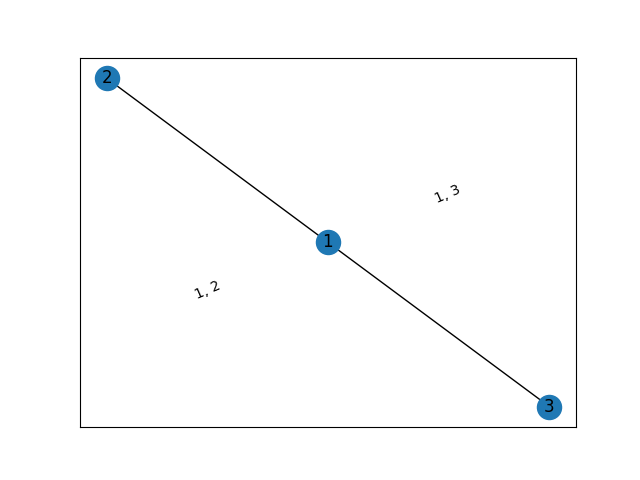
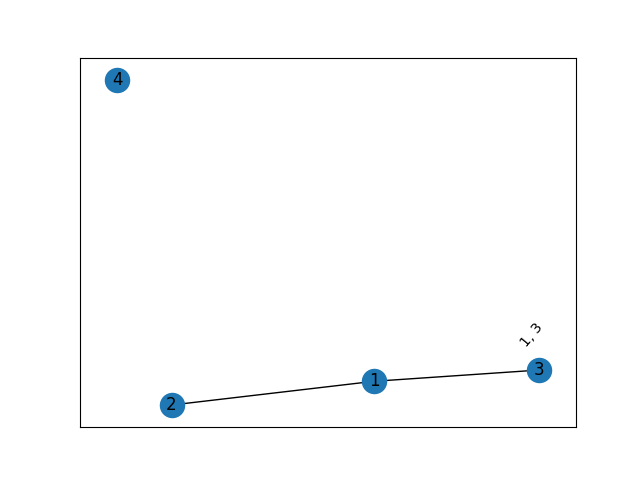
3rd

diff --git a/dag_testing/GHZ5/GHZ5.py b/dag_testing/GHZ5/GHZ5.py
@@ -7,6 +7,10 @@ from qiskit.visualization import dag_visualization
 from qiskit.converters import circuit_to_dag
 import os
 from ctypes import c_int, addressof
+import networkx as nx
+import matplotlib.pyplot as plt
+from networkx.drawing.nx_pydot import write_dot
+import networkx.algorithms.isomorphism as iso
 os.environ["PATH"] += os.pathsep + \
     '/Library/Frameworks/Python.framework/Versions/3.7/lib/python3.7/site-packages/graphviz'
 # IBMQ.load_accounts()
@@ -329,48 +333,126 @@ dist_table = []
 
 dist_table_dict = {}
 
+# turn the group into networkx graph
 for group in finalGroupingResult:
-    # turn the group into a list
+    if len(group) <= 1:
+        continue
+    # reassign qarg values
+    qarg_dict = {}
+    value_index = 10
     for dag_id in group:
-        list1 = []
-        list2 = []
-        temp_list = []
-        temp_list.append(dag_id)
-        temp_list.append(dagList[dag_id].name)
-        temp_list.append(dagList[dag_id].qargs)
-        if id_depth_dict[dag_id] % 2 == 1:
-            list1.append(temp_list.copy())
-        else:
-            list2.append(temp_list.copy())
-    result_list = []
-    result_list.append(list1)
-    result_list.append(list2)
-    # reformat 
-
-
-    # check whether result_list is in dist_table
-    iterator = 0
+        node = dagList[dag_id]
+        qargs = node[3]
+        for qarg in qargs:
+            if qarg[1] not in qarg_dict:
+                qarg_dict[qarg[1]] = value_index
+                value_index += 1 
+                
+    G = nx.Graph()
+    G.clear()
+    dumb_node = 'Z'
+    for dag_id in group:
+        if id_depth_dict[dag_id] % 2 == 1: # if on the first level
+            node = dagList[dag_id]
+            name = node[0].name
+            G.add_nodes_from([dag_id], fill=name)
+            qargs = node[3]
+            for qarg in qargs:
+                new_qarg = qarg_dict[qarg[1]]
+                G.add_nodes_from([dumb_node], fill='dumb')
+                G.add_weighted_edges_from([(dumb_node, dag_id, new_qarg)])
+                dumb_node = chr(ord(dumb_node) - 1)
+        else: # if on the second level:
+            node = dagList[dag_id]
+            name = node[0].name
+            G.add_nodes_from([dag_id], fill=name)
+            qargs = node[3]
+            pred_list = node[5]
+            index = 0
+            for qarg in qargs:
+                new_qarg = qarg_dict[qarg[1]]
+                pred = pred_list[index]
+                pred_node_id = pred._node_id
+                pred_dag_id = idDict[pred_node_id]
+                if pred_dag_id in group: # if in the group, connect them
+                    G.add_weighted_edges_from([(dag_id, pred_dag_id, new_qarg)])
+                else: # if not in the group connect it to a dumb_node
+                    G.add_nodes_from([dumb_node], fill='dumb')
+                    G.add_weighted_edges_from([(dumb_node, dag_id, new_qarg)]) 
+                    dumb_node = chr(ord(dumb_node) - 1)
+                index += 1 
+    # compare with known structures in table_list
+    em = iso.numerical_edge_match('weight', 10)
+    nm = iso.categorical_node_match('fill', 'dumb')
+    
+    index = 0
     found = False
-    while iterator < len(dist_table):
-        to_continue = False
-        # check same:
-        if len(result_list) == len(dist_table[iterator]):
-            if (len(result_list[0]) == len(dist_table[iterator][0])) and (len(result_list[1]) == len(dist_table[iterator][1])):
-                it = 0
-                while it < len(result_list[0]):
-                    node1 = result_list[0][it]
-                    node2 = dist_table[iterator][0][it]
-                    name1 = node1[1]
-                    name2 = node2[1]
-                    qargs1 = node1[2]
-                    qargs2 = node2[2]
-                    if len(qargs1) == len(qargs2):
-                        if 
-                    else:
-                        to_continue = True
-                        break
-                    it += 1
-                if to_continue == True:
-                    continue
-        iterator += 1
+    while index < len(dist_table):
+        H = dist_table[index]
+        if nx.is_isomorphic(G, H, node_match=nm, edge_match=em):
+            dist_table_dict[index] = dist_table_dict[index] + 1
+            found = True
+            break
+        index += 1
+    if not found: # add a new structure
+        dist_table.append(G)
+        pos = len(dist_table) - 1
+        dist_table_dict[pos] = 1
+
+iterator = 0
+while iterator < len(dist_table):
+    G = dist_table[iterator]
+    suffix = str(iterator)
+    file_name = '../structures/structure_' + suffix
+    nx.draw_networkx(G)
+    plt.savefig(file_name)
+    iterator += 1
+
+
+
+
+# for group in finalGroupingResult:
+#     # turn the group into a list
+#     for dag_id in group:
+#         list1 = []
+#         list2 = []
+#         temp_list = []
+#         temp_list.append(dag_id)
+#         temp_list.append(dagList[dag_id].name)
+#         temp_list.append(dagList[dag_id].qargs)
+#         if id_depth_dict[dag_id] % 2 == 1:
+#             list1.append(temp_list.copy())
+#         else:
+#             list2.append(temp_list.copy())
+#     result_list = []
+#     result_list.append(list1)
+#     result_list.append(list2)
+#     # reformat 
+
+
+#     # check whether result_list is in dist_table
+#     iterator = 0
+#     found = False
+#     while iterator < len(dist_table):
+#         to_continue = False
+#         # check same:
+#         if len(result_list) == len(dist_table[iterator]):
+#             if (len(result_list[0]) == len(dist_table[iterator][0])) and (len(result_list[1]) == len(dist_table[iterator][1])):
+#                 it = 0
+#                 while it < len(result_list[0]):
+#                     node1 = result_list[0][it]
+#                     node2 = dist_table[iterator][0][it]
+#                     name1 = node1[1]
+#                     name2 = node2[1]
+#                     qargs1 = node1[2]
+#                     qargs2 = node2[2]
+#                     if len(qargs1) == len(qargs2):
+#                         if 
+#                     else:
+#                         to_continue = True
+#                         break
+#                     it += 1
+#                 if to_continue == True:
+#                     continue
+#         iterator += 1
         

diff --git a/dag_testing/GHZ5/test.py b/dag_testing/GHZ5/test.py
@@ -31,17 +31,21 @@ G = nx.Graph()
 # G.add_node("spam")        # adds node "spam"
 # G.add_nodes_from("spam")  # adds 4 nodes: 's', 'p', 'a', 'm'
 # G.add_edge(3, 'm')
-
+G.add_nodes_from([1, 2, 3], fill='xxx')
+G.add_nodes_from([4], fill='yyy')
 G.add_weighted_edges_from([(1, 2, 1)])
-G.add_weighted_edges_from([(1, 3, 1)])
-
+G.add_weighted_edges_from([(1, 3, 2)])
 
 
 H = nx.Graph()
-H.add_weighted_edges_from([(5, 6, 2)])
-H.add_weighted_edges_from([(5, 7, 2)])
+H.add_nodes_from(['A', 6, 7], fill='xxx')
+H.add_nodes_from([8], fill='yyy')
+H.add_weighted_edges_from([('A', 6, 1)])
+H.add_weighted_edges_from([('A', 7, 2)])
 
 em = iso.numerical_edge_match('weight', 1)
+
+nm = iso.categorical_node_match('fill', 'xxx') 
 
 print(G.number_of_nodes())
 
@@ -49,7 +53,7 @@ print(list(G.nodes))
 
 print('...........................................')
 
-print(nx.is_isomorphic(G, H, edge_match=em))
+print(nx.is_isomorphic(G, H, node_match=nm, edge_match=em))
 
 
 
@@ -58,3 +62,7 @@ pos = nx.spring_layout(G)
 nx.draw_networkx_edge_labels(G, pos, edge_labels={(1, 2):"1, 2", (1, 3):"1, 3"})
 nx.draw_networkx(G)
 plt.savefig("path.png")
+
+x = 'Z'
+x = chr(ord(x) - 1)
+print(x)
